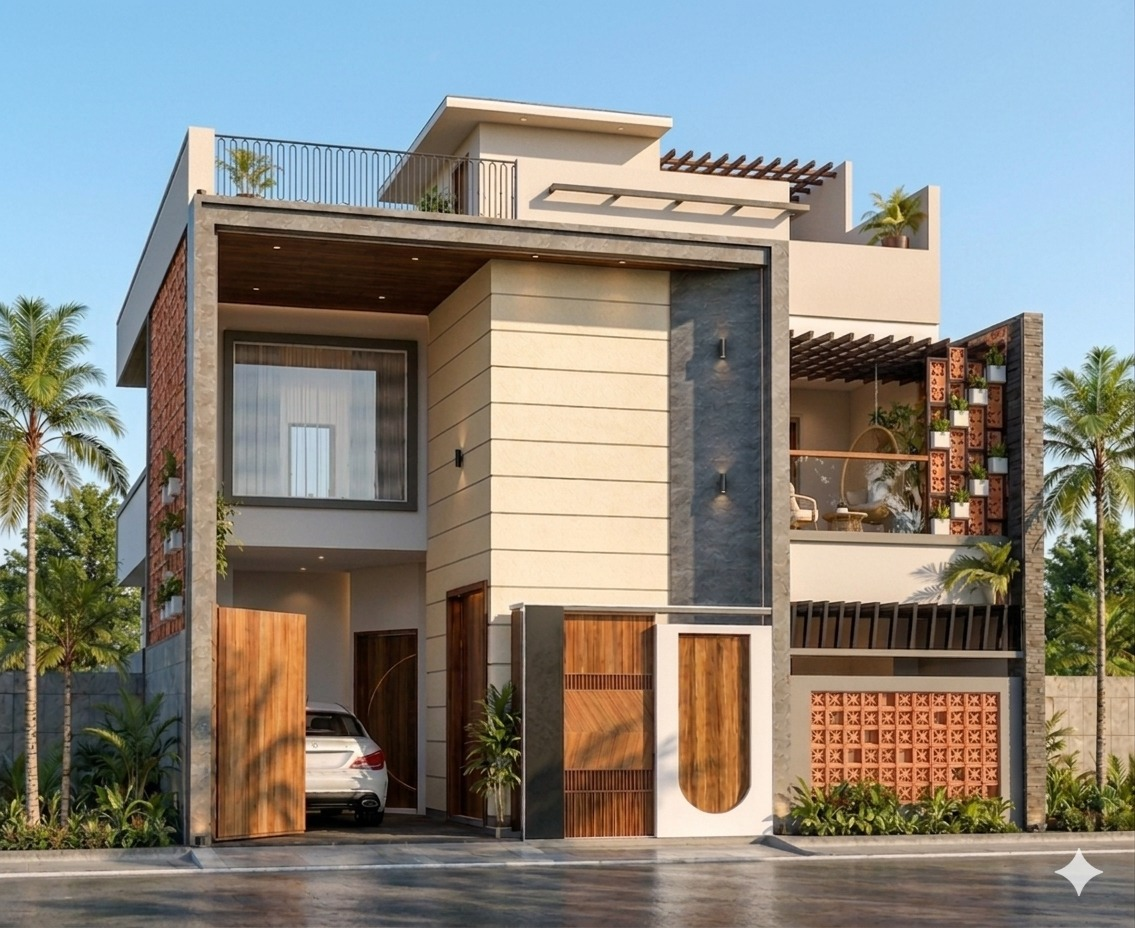
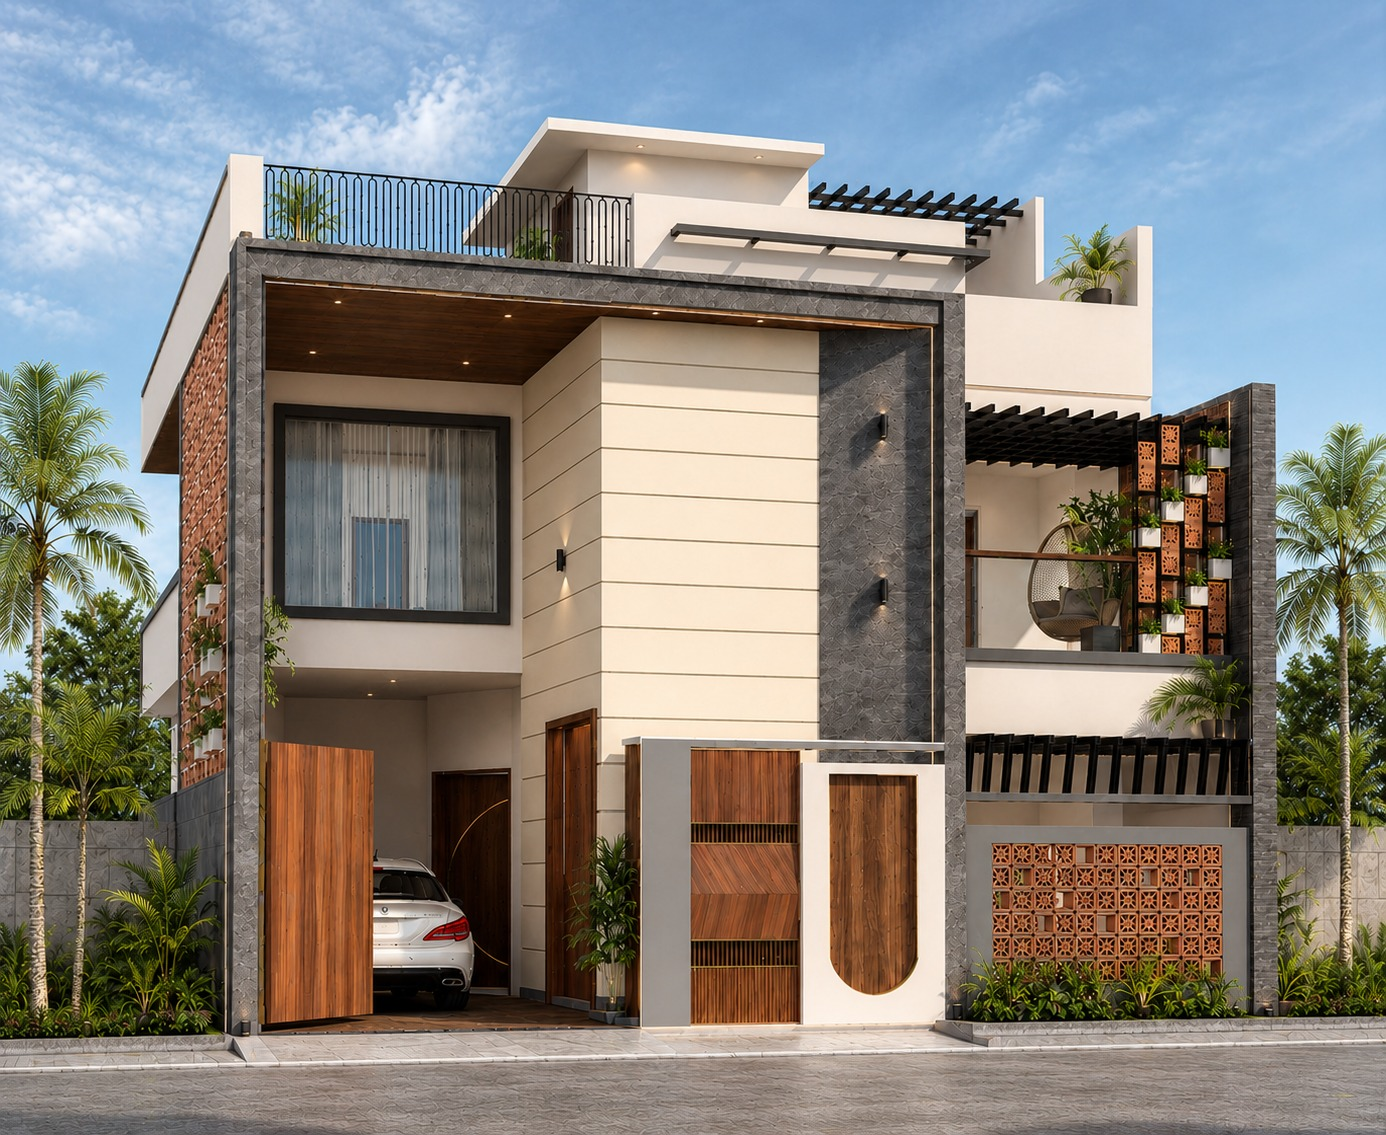
Update project

diff --git a/index.html b/index.html
@@ -655,10 +655,11 @@ layout, structural reinforcement modelling with BBS output, shop drawings, and 3
 client presentation.
         </p>
         <div class="project-tags">
-          <span class="tag">Revit Structure</span>
-          <span class="tag">Navisworks</span>
-          <span class="tag">BBS</span>
-          <span class="tag">ISO 19650</span>
+          <span class="tag">BIM MODELLING</span>
+          <span class="tag">REINFORCEMENT / BBS</span>
+          <span class="tag">SHOP DRAWINGS</span>
+          <span class="tag">3D VISUALIZATION</span>
+          <span class="tag">SITE PLANNING</span>
         </div>
       </div>
     </div>
@@ -692,9 +693,11 @@ design framework. Produced the site plan and layout, reinforcement modelling wit
 3D visualizations/renderings to support design coordination and client presentation.
         </p>
         <div class="project-tags">
-          <span class="tag">Revit Structure</span>
-          <span class="tag">Shop Drawings</span>
-          <span class="tag">BEP Compliance</span>
+          <span class="tag">BIM MODELLING</span>
+          <span class="tag">REINFORCEMENT / BBS</span>
+          <span class="tag">SHOP DRAWINGS</span>
+          <span class="tag">CLASH DETECTION</span>
+          <span class="tag">3D VISUALIZATION</span>
         </div>
       </div>
     </div>
@@ -736,9 +739,11 @@ architectural layout, reinforcement modelling with BBS output, shop drawings, cl
 design coordination and client presentation.
         </p>
         <div class="project-tags">
-          <span class="tag">Revit Structure</span>
-          <span class="tag">Foundation Design</span>
-          <span class="tag">Reinforcement</span>
+          <span class="tag">BIM MODELLING</span>
+          <span class="tag">REINFORCEMENT / BBS</span>
+          <span class="tag">SHOP DRAWINGS</span>
+          <span class="tag">CLASH DETECTION</span>
+          <span class="tag">3D VISUALIZATION</span>
         </div>
       </div>
     </div>
@@ -769,11 +774,11 @@ construction details. Drawings were developed with a focus on precision, enginee
 practices to ensure accurate representation of structural elements for efficient construction execution.
         </p>
         <div class="project-tags">
-          <span class="tag">Revit Structure</span>
-          <span class="tag">Navisworks</span>
-          <span class="tag">BBS</span>
-          <span class="tag">Clash Detection</span>
-          <span class="tag">ISO 19650</span>
+          <span class="tag">AUTOCAD</span>
+          <span class="tag">REINFORCEMENT DETAILING</span>
+          <span class="tag">STRUCTURAL SECTIONS</span>
+          <span class="tag">FOUNDATION LAYOUT</span>
+          <span class="tag">CONSTRUCTION DETAILS</span>
         </div>
       </div>
     </div>
@@ -807,11 +812,12 @@ configured natural lighting, landscaping, and camera compositions, then used Al 
 production, producing modern, presentation-ready architectural visualizations.
         </p>
         <div class="project-tags">
-          <span class="tag">Revit Structure</span>
-          <span class="tag">Navisworks</span>
-          <span class="tag">Shop Drawings</span>
-          <span class="tag">BEP Compliance</span>
-          <span class="tag">Coordination</span>
+          <span class="tag">SKETCHUP</span>
+          <span class="tag">V-RAY</span>
+          <span class="tag">ENSCAPE</span>
+          <span class="tag">AI-ENHANCED RENDERING</span>
+          <span class="tag">PHOTOREALISTIC
+VISUALIZATION</span>
         </div>
       </div>
     </div>